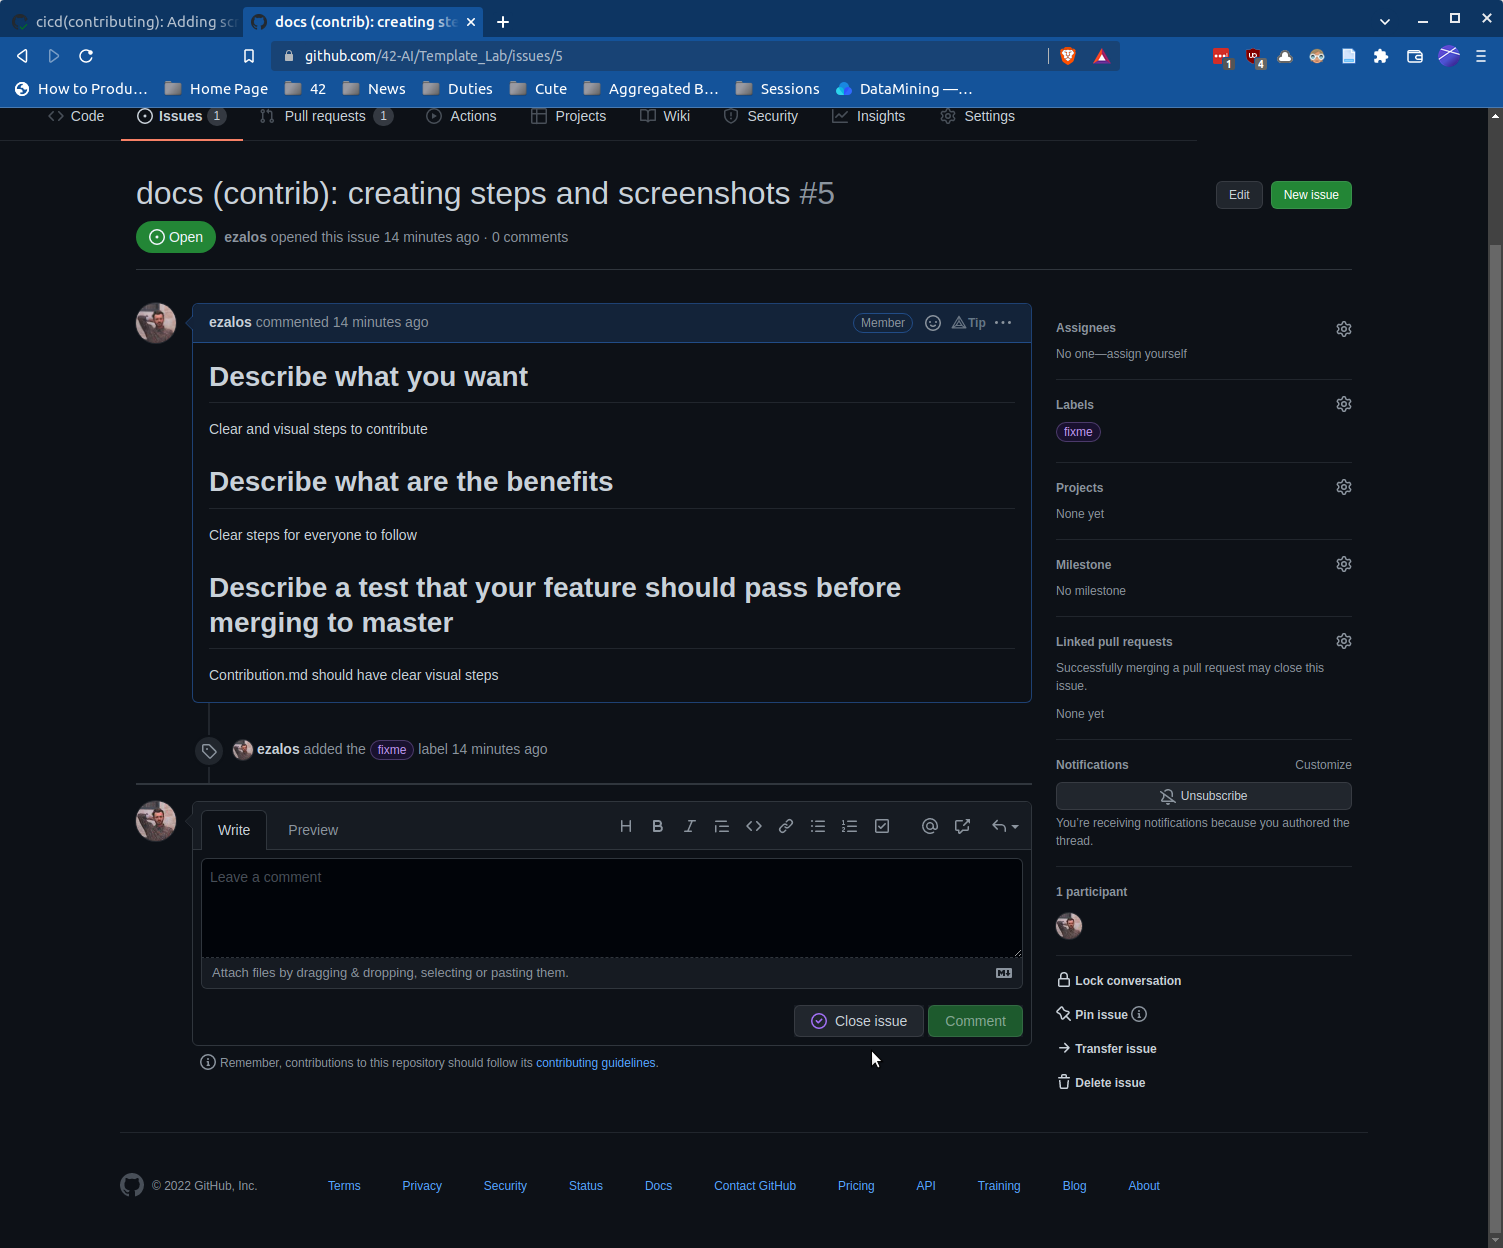
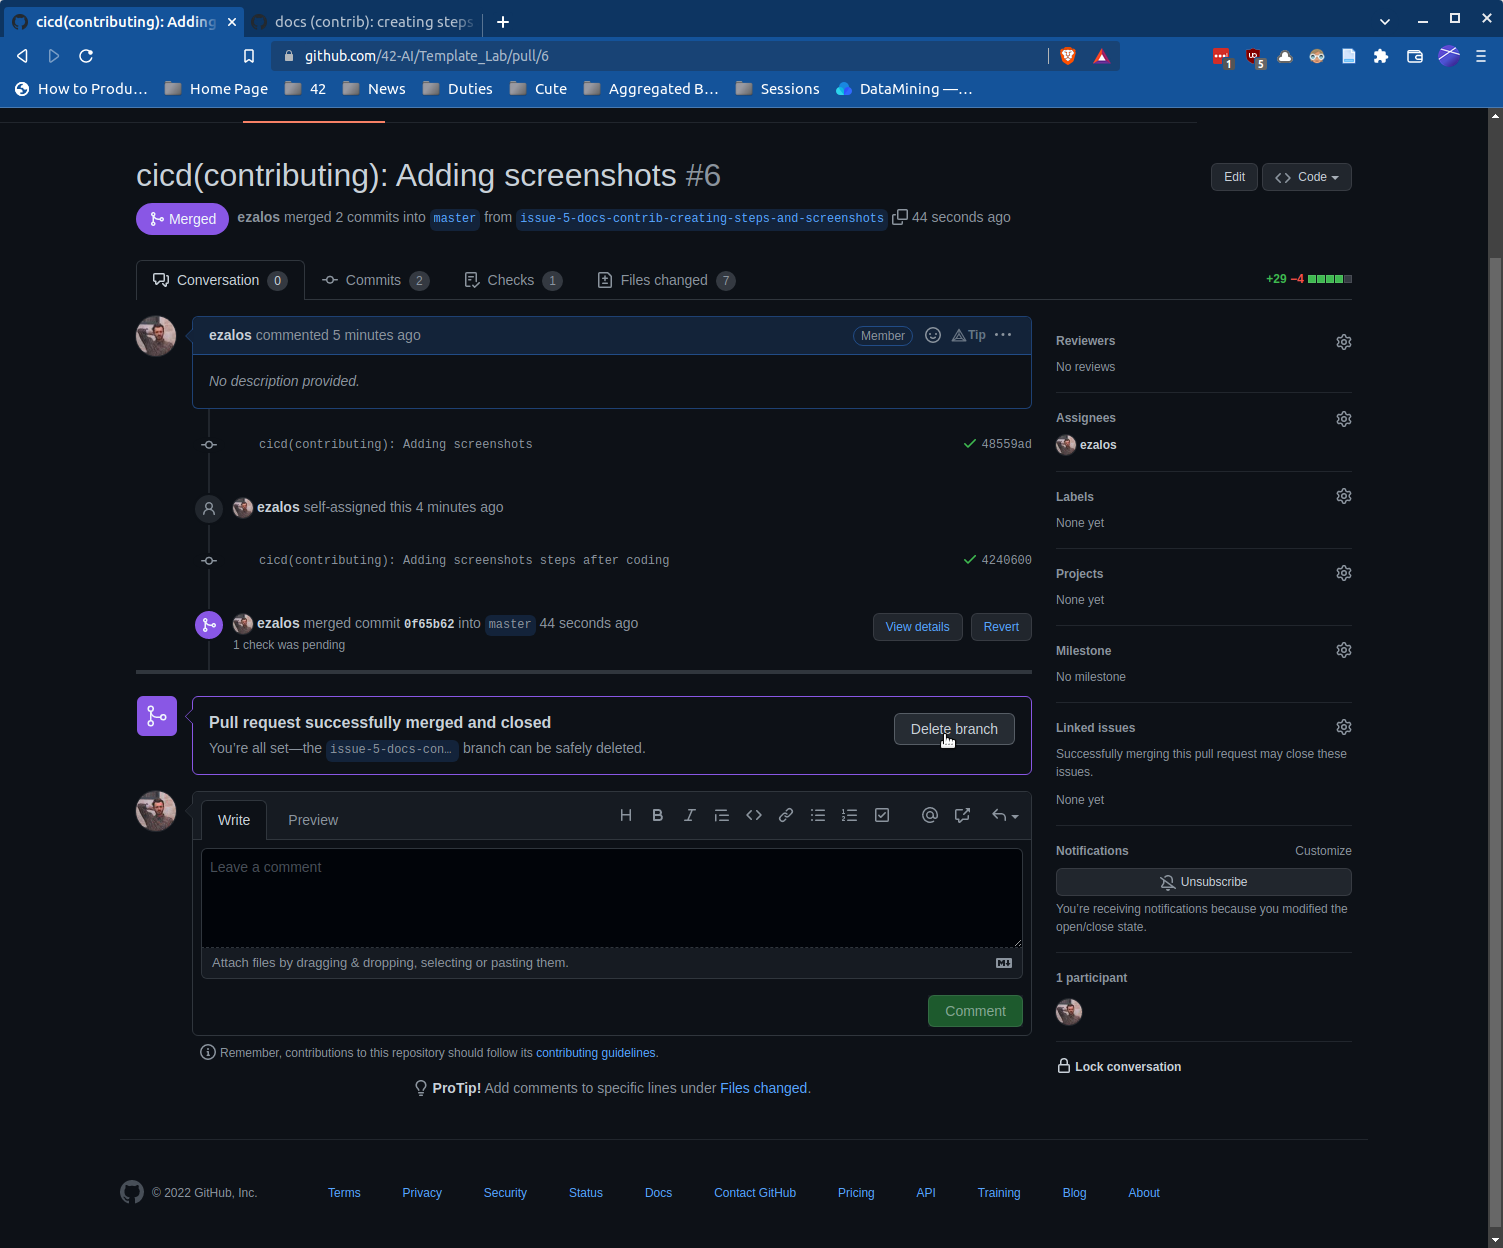
docs(contributing): Adding screenshot branch deletion

diff --git a/CONTRIBUTING.md b/CONTRIBUTING.md
@@ -32,7 +32,7 @@ For this step there is a web pluggin which makes everything easier:
 
 ## 6. Work on it
 
-needs to have successful github actions
+You can code !
 
 ## 7. Create a Pull Request
 
@@ -47,9 +47,13 @@ needs to have successful github actions
 
 ![Step 9](.42AI/assets/Step_9.png)
 
-## 10. Close the issue
+## 10. Delete the old branch
 
 ![Step 10](.42AI/assets/Step_10.png)
+
+## 11. Close the issue
+
+![Step 11](.42AI/assets/Step_11.png)
 
 
 ---
